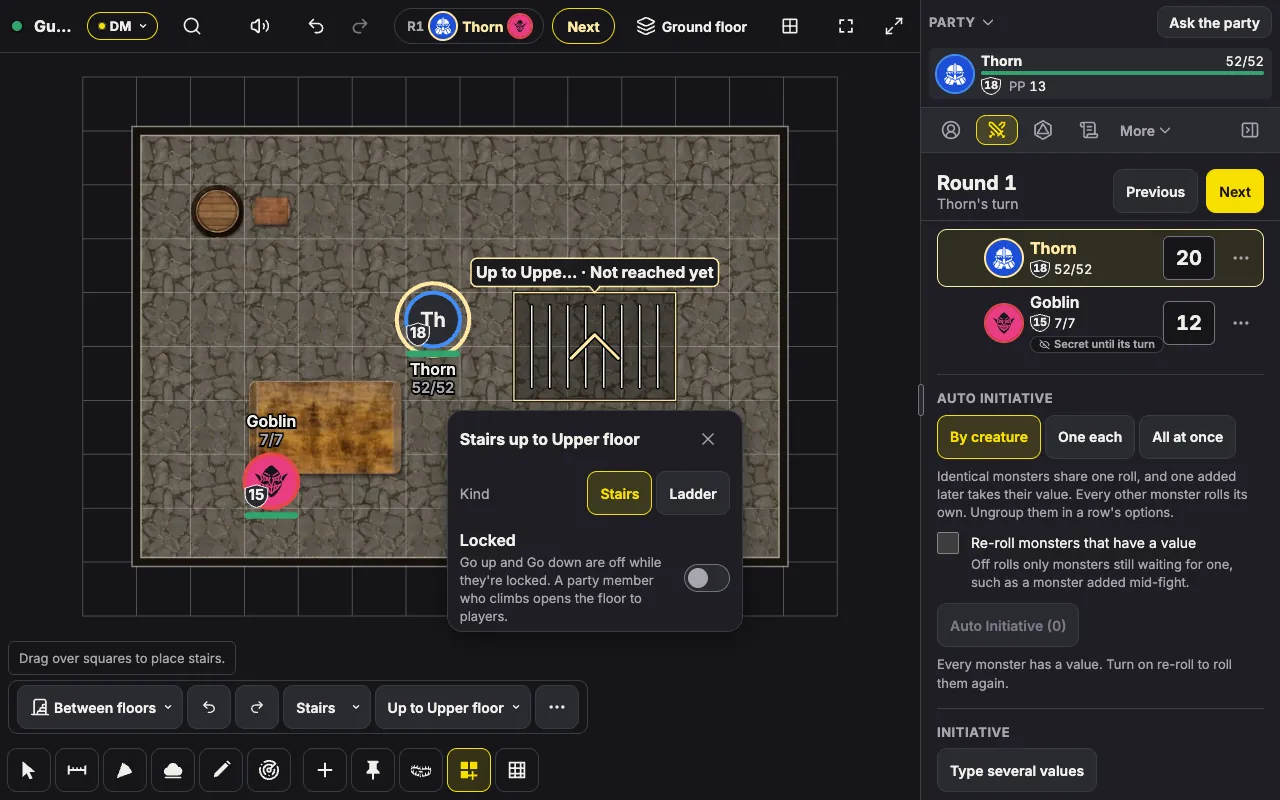
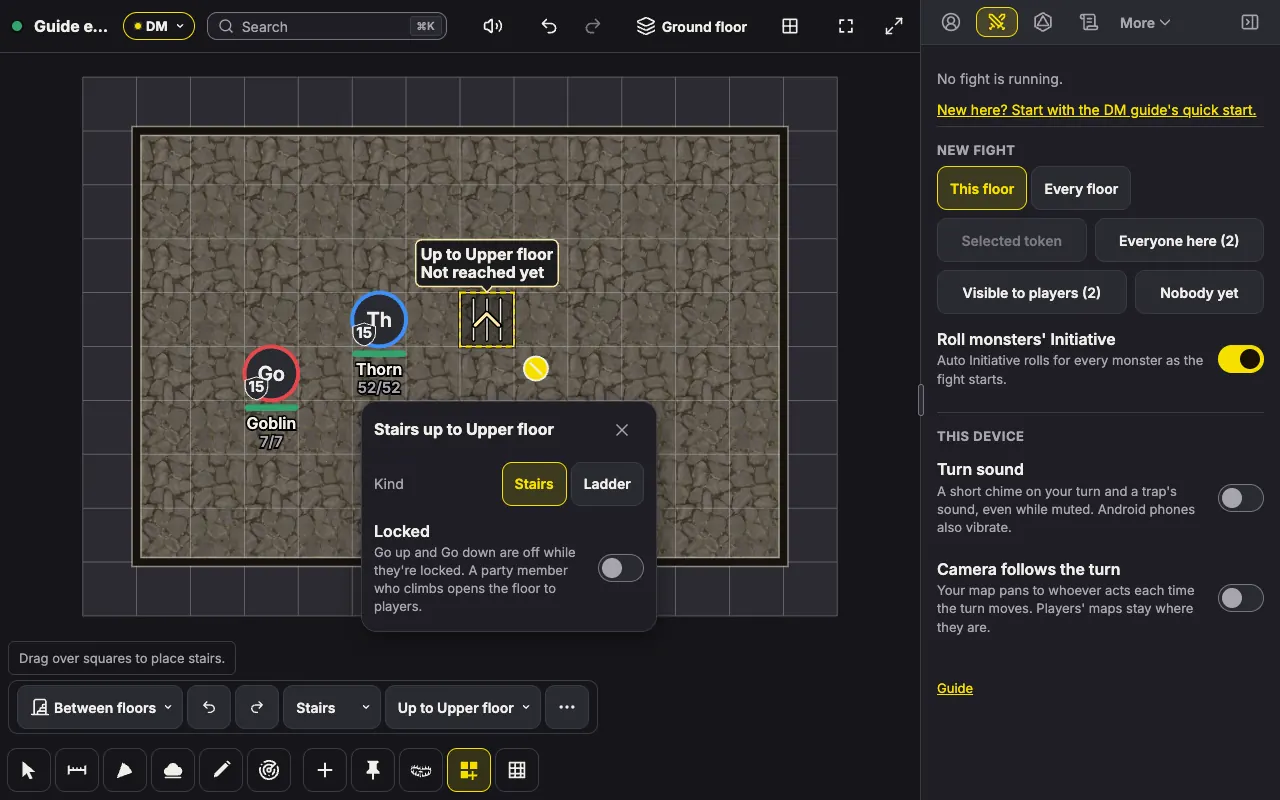
docs(guide): retake the stairs builder picture with a script, and say what stands beside the box

diff --git a/scripts/guide-floors-stairs.ts b/scripts/guide-floors-stairs.ts
@@ -1,0 +1,111 @@
+/**
+ * The DM guide's picture of the Map builder on stairs
+ * (docs/dm-guide.md, "Stairs and ladders"), taken from the real server on
+ * the production build so it always shows the app as it is:
+ *
+ * - floors-stairs-builder.webp: Between floors on Tower's Ground floor, a box
+ *   of stairs up to Upper floor, not reached yet, its pane open with Kind on
+ *   Stairs beside Ladder and Opening, and Locked off.
+ *
+ * It needs `pnpm build` first and a Postgres in DATABASE_URL. It makes a
+ * room, writes the picture to docs/dm-guide/ at 1280 x 800, as the guide's
+ * other pictures are, and deletes the room:
+ *
+ *   DATABASE_URL=postgres://... GUIDE_PORT=3197 node scripts/guide-floors-stairs.ts
+ *
+ * GUIDE_COPY_DIR, when set, also gets the picture as guide-<name>.png, which
+ * it never overwrites, for looking at it at full quality.
+ */
+import { uuidv7 as randomUUID } from "../shared/ids.ts";
+import { mkdirSync, mkdtempSync, rmSync, writeFileSync } from "node:fs";
+import { tmpdir } from "node:os";
+import path from "node:path";
+import { chromium, type Page } from "playwright-core";
+import sharp from "sharp";
+import { OpSocket, pickOption, pickTool, ROOT, SocketWatch, startServer, tapCell, waitFor } from "../e2e/harness.ts";
+
+const PORT = Number(process.env.GUIDE_PORT ?? 3197);
+const DATABASE_URL = process.env.DATABASE_URL ?? "postgres://raccoon:raccoon@localhost:5434/raccoon";
+const OUT = path.join(ROOT, "docs", "dm-guide");
+const DESK = { width: 1280, height: 800 };
+const COPY_DIR = process.env.GUIDE_COPY_DIR;
+const BOUNDS = { w: 14, h: 10 };
+const TOOL = "Map builder";
+const STAIRS = { x: 7, y: 4 };
+
+function actor(hp: number, fly = 0) {
+  return { hp: { cur: hp, max: hp, temp: 0 }, life: "alive", ac: 15, speeds: { walk: 30, ...(fly > 0 ? { fly } : {}) }, initBonus: 2, passivePerception: 13, senses: "", effects: [], deathSaves: { ok: 0, fail: 0 }, notes: "", dmNotes: "" };
+}
+
+/** The page as the guide shows it, at the quality its other pictures use. */
+async function picture(page: Page, name: string): Promise<void> {
+  await page.waitForTimeout(1000);
+  const png = await page.screenshot();
+  const info = await sharp(png).webp({ quality: 78, effort: 6 }).toFile(path.join(OUT, `${name}.webp`));
+  console.log(`${name}.webp ${info.width} x ${info.height}, ${Math.round(info.size / 1024)} KB`);
+  if (COPY_DIR !== undefined) {
+    mkdirSync(COPY_DIR, { recursive: true });
+    writeFileSync(path.join(COPY_DIR, `guide-${name}.png`), png, { flag: "wx" });
+  }
+}
+
+/** Waits until no toast covers the map, so a picture shows the page and not its notices. */
+async function quiet(page: Page): Promise<void> {
+  await waitFor("no toast", async () => ((await page.locator("[data-toast]").count()) === 0 ? true : null), 20_000);
+}
+
+const work = mkdtempSync(path.join(tmpdir(), "raccoon-guide-stairs-"));
+const server = await startServer({ port: PORT, assetDir: path.join(work, "assets"), databaseUrl: DATABASE_URL });
+const browser = await chromium.launch({ channel: "chrome", headless: true });
+const roomName = "Guide examples";
+let roomId = "";
+let ops: OpSocket | null = null;
+const dmContext = await browser.newContext({ viewport: DESK });
+try {
+  const origin = server.origin;
+  const dm = await dmContext.newPage();
+  const dmSocket = new SocketWatch("dm");
+  await dmSocket.attach(dmContext, dm);
+  await dm.goto(`${origin}/`);
+  await dm.getByLabel("Room name").fill(roomName);
+  await dm.getByLabel("Your name").fill("Dana the DM");
+  await dm.getByRole("button", { name: "Create room" }).click();
+  await dm.getByRole("heading", { name: "Save your DM link" }).waitFor();
+  const link = (await dm.locator("code").first().textContent()) ?? "";
+  roomId = /\/r\/([0-9A-Z]{4}-[0-9A-Z]{4})#dm=/.exec(link)![1]!.replace("-", "");
+  await dm.getByLabel("I saved my DM link").check();
+  await dm.getByRole("button", { name: "Continue to the room" }).click();
+  await waitFor("the DM's snapshot", () => dmSocket.state);
+  const ground = dmSocket.state!.meta.playerSceneId!;
+  const cookie = (await dmContext.cookies(origin)).map((c) => `${c.name}=${c.value}`).join("; ");
+  ops = await OpSocket.open({ origin, roomId, cookie });
+
+  // Tower: a stone hall on Ground floor under an Upper floor no player has reached.
+  const upper = randomUUID();
+  const shown = { visibility: "all", size: "medium" } as const;
+  await ops.send({ t: "scene.update", sceneId: ground, patch: { name: "Tower", bounds: BOUNDS, fogEnabled: false } });
+  await ops.send({ t: "scene.create", scene: { id: upper, name: "Tower", bounds: BOUNDS }, floor: { beside: ground, side: "above", besideName: "Ground floor" } });
+  await ops.send({ t: "scene.update", sceneId: upper, patch: { floor: { name: "Upper floor", height: 10 }, fogEnabled: false } });
+  await ops.send({ t: "build.rect", sceneId: ground, terrain: "stone", x: 1, y: 1, w: 12, h: 8 });
+  await ops.send({ t: "build.rect", sceneId: upper, terrain: "wood", x: 1, y: 1, w: 12, h: 8 });
+  await ops.send({ t: "token.create", token: { id: randomUUID(), sceneId: ground, kind: "monster", name: "Goblin", disposition: "hostile", actor: { inline: actor(7) }, x: 3, y: 5, ...shown } });
+  await ops.send({ t: "token.create", token: { id: randomUUID(), sceneId: ground, kind: "monster", name: "Thorn", disposition: "ally", actor: { inline: actor(52) }, x: 5, y: 4, ...shown } });
+  await waitFor("the room's tokens", () => (Object.keys(dmSocket.state?.tokens ?? {}).length === 2 ? true : null));
+  await dm.reload();
+  await dm.locator(".konvajs-content").first().waitFor();
+
+  await pickTool(dm, TOOL);
+  await pickOption(dm, TOOL, "Builder mode", "Between floors");
+  await pickOption(dm, TOOL, "Kind", "Stairs");
+  await pickOption(dm, TOOL, "To", "Up to Upper floor");
+  await tapCell(dm, BOUNDS, STAIRS);
+  await dm.getByRole("heading", { name: "Stairs up to Upper floor" }).waitFor();
+  await quiet(dm);
+  await picture(dm, "floors-stairs-builder");
+} finally {
+  ops?.close();
+  if (roomId) await dmContext.request.delete(`${server.origin}/api/rooms/${roomId}`, { headers: { Origin: server.origin }, data: { name: roomName } }).catch(() => undefined);
+  await browser.close();
+  await server.stop();
+  rmSync(work, { recursive: true, force: true });
+}

diff --git a/docs/dm-guide.md b/docs/dm-guide.md
@@ -318,7 +318,7 @@ Stairs and ladders let a character change floors without asking you. They are no
 
 **Placing a pair.** Open the **Map builder** on the floor where the climb starts and pick **Between floors**, the last mode. It shows only on a scene with more than one floor. Choose **Stairs** or **Ladder** under **Kind** and the floor under **To**, which lists only the floors next to this one, then drag over the squares, up to 4 by 4, or the hexes on a hex scene. A tap places one square. The app writes an end on each floor at the same squares, so a creature that climbs lands on the square above where it stood.
 
-![The Map builder in Between floors on the Tower's ground floor: a box of stairs on the stone floor, named for Upper floor and Not reached yet, with its pane open beside Thorn and the table, showing Kind on Stairs and the Locked switch off.](dm-guide/floors-stairs-builder.webp)
+![The Map builder in Between floors on the Tower's ground floor: a box of stairs on the stone floor, named for Upper floor and Not reached yet, with its pane open beside Thorn and a goblin, showing Kind on Stairs and the Locked switch off.](dm-guide/floors-stairs-builder.webp)
 
 The squares must be open, level ground on both floors. A wall through them, two heights under them, a pit trap or the edge of a floor refuses the placement, and the box turns red with the reason under the toolbar. A scene holds 16 pairs. Once a pair is placed, the app keeps the ground under it as it is, so an undo of a climb always lands where the creature stood. A height, a paint stroke, an erase or a generated dungeon over its squares is refused, and so are a wall through them and a pit trap under them, each with "Remove them first." Adding a floor between two linked floors, or moving one there, is off too, with "Stairs join Ground floor and Upper floor. Remove them before putting a floor between." on the floor's page.
 
